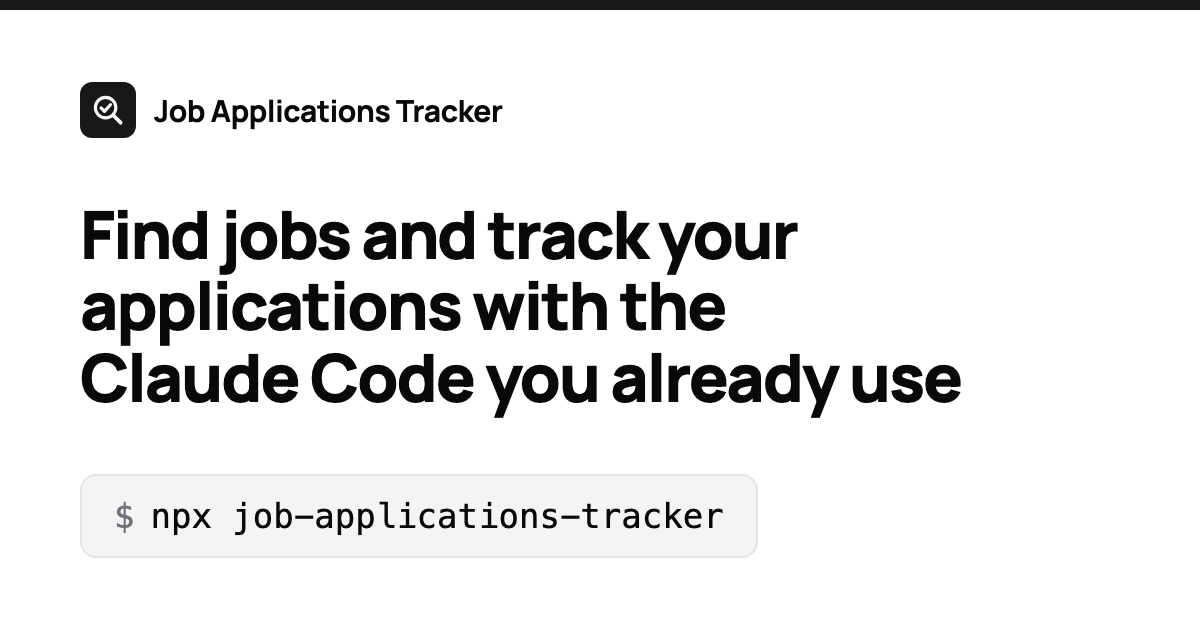
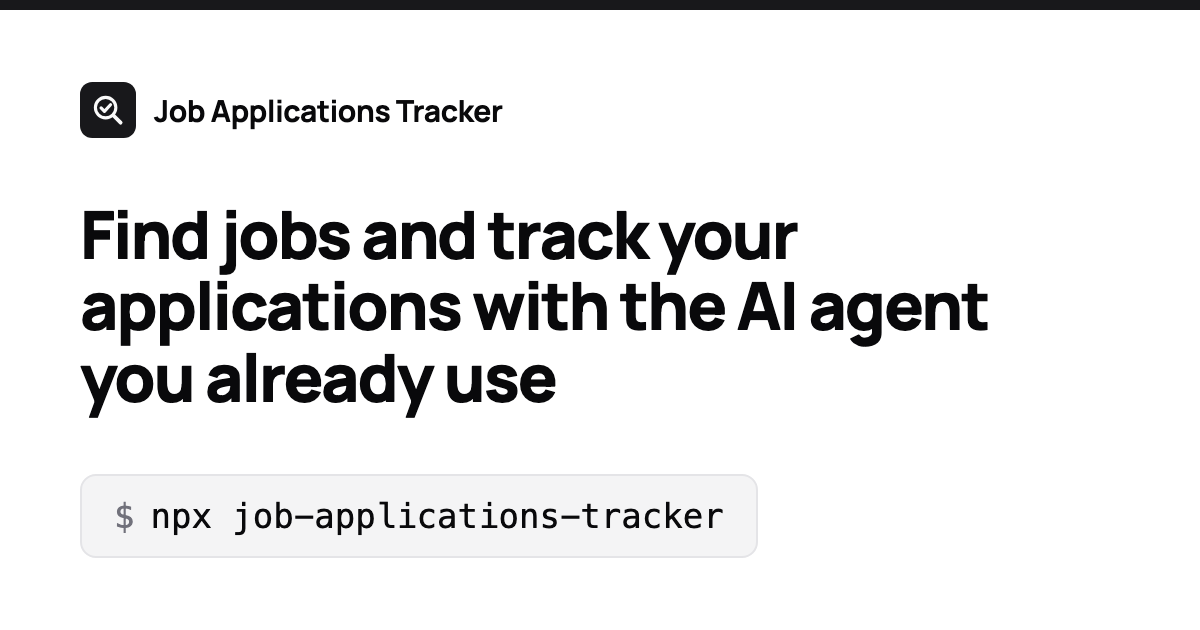
Make copy agent-neutral and rework the agent section
The headline, title, description and OG image now say "the AI agent you
already use"; claims that hold only for Claude Code are labelled as such.
The Claude Code section becomes "Works with your agent" with three steps:
run npx, pick your agent, optionally connect Gmail. Copy follows the app
README of npm 0.2.0; the copy guard checks the new section and that
"no agent setup" is always scoped to Claude Code.

Changed region(s): [[0.0617, 0.4524, 0.8325, 0.6635]]

diff --git a/src/content/site.ts b/src/content/site.ts
@@ -1,5 +1,5 @@
-// All page copy, commands and links. Every factual claim must trace to the app README at the
-// pinned commit and describe npm 0.2.0; tests/unit/copy-guard.test.ts enforces the banned phrases.
+// All page copy, commands and links. Every factual claim must trace to the app README of npm
+// 0.2.0 (tag v0.2.0) and describe that version; tests/unit/copy-guard.test.ts enforces the banned phrases.
 
 export type StepId = 'cv' | 'jobs' | 'apply' | 'review' | 'dashboard';
 export interface JourneyStep {
@@ -22,28 +22,28 @@ export const LINKS: { github: string; npm: string; readme: string; license: stri
 };
 
 export const meta: { title: string; description: string } = {
-  title: 'Job Applications Tracker: find and track jobs with Claude Code',
+  title: 'Job Applications Tracker: find and track jobs with your AI agent',
   description:
-    'A local app that has the Claude Code you already have find job postings, then checks every link itself, tracks your applications and proposes status changes from Gmail.',
+    'A local app that uses the AI agent you already have to find job postings. It checks every link itself, tracks your applications and turns Gmail replies into status changes you accept.',
 };
 
 export const hero: { headline: string; subhead: string } = {
-  // Non-breaking space keeps the product name on one line.
-  headline: 'Find jobs and track your applications with the Claude\u00a0Code you already use',
+  // Non-breaking spaces keep "AI agent" together and stop "use" from wrapping alone.
+  headline: 'Find jobs and track your applications with the AI\u00a0agent you already\u00a0use',
   subhead:
-    'A local app that has your agent search for postings that match your profile, checks every link itself, and turns Gmail replies into status changes you accept. No agent setup.',
+    'A local app that has your agent search for postings that match your profile, checks every link itself, and turns Gmail replies into status changes you accept. No agent setup with Claude Code.',
 };
 
 export const journeySteps: JourneyStep[] = [
   {
     id: 'cv',
     title: 'Drop your CV, get a profile',
-    line: 'Your agent reads the text of your CV and suggests target roles, locations, remote preference and seniority.',
+    line: 'The app reads the text of your CV and your agent suggests target roles, locations, remote preference and seniority.',
   },
   {
     id: 'jobs',
-    title: 'Claude Code finds jobs, the app checks every link',
-    line: 'Claude Code searches the web for matching postings; the app checks every link itself and shows how each job fits.',
+    title: 'Your agent finds jobs, the app checks every link',
+    line: 'Your agent searches the web for matching postings; the app checks every link itself and shows how each job fits.',
   },
   {
     id: 'apply',
@@ -69,7 +69,7 @@ export const trustPoints: { title: string; body: string }[] = [
   },
   {
     title: 'Your own agent',
-    body: 'The app runs the Claude Code you already use, with your sign-in and your plan. Your profile, the text of your CV and the mail it reads go to that agent, like any other prompt you give it.',
+    body: 'The app runs the agent CLI you already use: Claude Code by default, or Codex or a custom command. Your profile, the text of your CV and the mail it reads go to that agent, like any other prompt you give it.',
   },
   {
     title: 'Nothing changes until you accept',
@@ -77,18 +77,17 @@ export const trustPoints: { title: string; body: string }[] = [
   },
   {
     title: 'It never applies or sends mail',
-    body: 'The app never applies to jobs, sends mail, or changes your labels or messages. For Gmail sync, Claude Code is by default allowed only the search and read tools.',
+    body: 'The app never applies to jobs, sends mail, or changes your labels or messages. For Gmail sync, Claude Code is by default allowed only the search and read tools; Codex gets whatever access its own Gmail MCP server allows, and is told to only read.',
   },
 ];
 
-export const claudeCode: {
+export const agents: {
   title: string;
   intro: string;
   steps: { title: string; body: string; command?: string }[];
 } = {
-  title: 'No agent setup. Ready in two steps.',
-  intro:
-    'Claude Code is the app’s default agent. With it installed, the app skips agent Setup and opens on your profiles.',
+  title: 'Works with your agent',
+  intro: 'Claude Code is the app’s default agent; Codex and custom commands work too.',
   steps: [
     {
       title: 'Run it',
@@ -96,8 +95,12 @@ export const claudeCode: {
       command: INSTALL_NPX,
     },
     {
-      title: 'Connect Gmail in claude.ai (optional)',
-      body: 'Gmail sync uses the claude.ai Gmail connector. Connect Gmail once in your claude.ai account, and sync can read replies about your applications and propose status changes.',
+      title: 'Pick your agent',
+      body: 'With Claude Code installed, the app uses it and skips Setup. Otherwise Setup opens, where you pick Codex or a custom command. Change it later in Settings → Agent.',
+    },
+    {
+      title: 'Connect Gmail (optional)',
+      body: 'For Claude Code, connect Gmail once in your claude.ai account; sync uses the claude.ai Gmail connector. For Codex or a custom command, set up a Gmail MCP server in that agent yourself.',
     },
   ],
 };
@@ -155,7 +158,7 @@ export const faq: { q: string; a: string }[] = [
   },
   {
     q: 'What does the app send to the agent?',
-    a: 'For a CV analysis, the text read from your CV (not the file). For a job search, your profile fields, including Notes, and the links of jobs you already have. For Gmail sync, the agent searches and reads your mail, so it sees the messages it finds. That content reaches your agent’s model the same way your other prompts do.',
+    a: 'For a CV analysis, the text read from your CV (not the file). For a job search, your profile fields, including Notes, and the links of the 200 newest jobs you already have. For Gmail sync, the agent searches and reads your mail, so it sees the messages it finds. That content reaches your agent’s model the same way your other prompts do.',
   },
   {
     q: 'Where does my data live?',
@@ -167,7 +170,7 @@ export const faq: { q: string; a: string }[] = [
   },
   {
     q: 'What does it cost?',
-    a: 'The app is MIT-licensed. Searches and syncs run on your Claude Code plan, and each job search’s Run page shows what it used. A Max-effort search uses several times the tokens of a normal one, so it asks before it starts.',
+    a: 'The app is MIT-licensed. Searches and syncs run on your agent’s plan (Claude Code or Codex), and each job search’s Run page shows what the agent reported it used. A Max-effort search uses several times the tokens of a normal one, so it asks before it starts.',
   },
   {
     q: 'What do I need?',
@@ -183,6 +186,6 @@ function collectStrings(value: unknown, out: string[]): string[] {
 }
 
 export const ALL_COPY: string[] = collectStrings(
-  [INSTALL_NPX, INSTALL_GLOBAL, RUN_GLOBAL, meta, hero, journeySteps, trustPoints, claudeCode, sections, faq],
+  [INSTALL_NPX, INSTALL_GLOBAL, RUN_GLOBAL, meta, hero, journeySteps, trustPoints, agents, sections, faq],
   [],
 );

diff --git a/tests/unit/copy-guard.test.ts b/tests/unit/copy-guard.test.ts
@@ -1,5 +1,5 @@
 import { describe, expect, test } from 'vitest';
-import { ALL_COPY, INSTALL_NPX, claudeCode, faq, journeySteps } from '../../src/content/site';
+import { ALL_COPY, INSTALL_NPX, agents, faq, hero, journeySteps, meta } from '../../src/content/site';
 
 // Global Constraints: phrases that overclaim privacy or imply auto-apply.
 const BANNED = [
@@ -33,11 +33,29 @@ describe('site copy', () => {
     expect(faq.some((item) => item.a.includes('Node 22'))).toBe(true);
   });
 
-  test('two-step Claude Code section', () => {
-    expect(claudeCode.steps.length).toBe(2);
-    expect(claudeCode.steps[0].command).toBe(INSTALL_NPX);
-    const second = `${claudeCode.steps[1].title} ${claudeCode.steps[1].body}`;
-    expect(second).toContain('Gmail');
-    expect(second).toContain('claude.ai');
+  test('three-step agent section', () => {
+    expect(agents.steps.length).toBe(3);
+    expect(agents.steps[0].command).toBe(INSTALL_NPX);
+    const texts = agents.steps.map((step) => `${step.title} ${step.body}`);
+    expect(texts.some((text) => text.includes('Codex'))).toBe(true);
+    const gmail = texts.find((text) => text.includes('Gmail'));
+    expect(gmail).toContain('claude.ai');
+    expect(gmail).toContain('MCP');
+  });
+
+  // Decision 14: the pitch is agent-neutral; "no agent setup" holds only for Claude Code.
+  test('headline, title and description are agent-neutral', () => {
+    for (const text of [hero.headline, meta.title, meta.description]) {
+      expect(text).not.toContain('Claude');
+    }
+    expect(hero.headline.replace(/\u00a0/g, ' ')).toContain('the AI agent you already use');
+  });
+
+  test('"no agent setup" is always scoped to Claude Code', () => {
+    for (const text of ALL_COPY) {
+      for (const match of text.matchAll(/no agent setup/gi)) {
+        expect(text.slice(match.index), `"${text}"`).toMatch(/^no agent setup with Claude Code/i);
+      }
+    }
   });
 });

diff --git a/tests/e2e/sections.spec.ts b/tests/e2e/sections.spec.ts
@@ -31,9 +31,9 @@ test('no horizontal scroll at 390px', async ({ page }) => {
   expect(overflow).toBeLessThanOrEqual(0);
 });
 
-test('page has the trust, claude-code and install sections', async ({ page }) => {
+test('page has the trust, agents and install sections', async ({ page }) => {
   await page.goto('/');
-  for (const id of ['trust', 'claude-code', 'install']) {
+  for (const id of ['trust', 'agents', 'install']) {
     await expect(page.locator(`section#${id}`)).toHaveCount(1);
   }
 });

diff --git a/scripts/og/og.html b/scripts/og/og.html
@@ -40,7 +40,7 @@
     </svg>
     Job Applications Tracker
   </div>
-  <h1>Find jobs and track your applications with the Claude&nbsp;Code you already use</h1>
+  <h1>Find jobs and track your applications with the AI&nbsp;agent you already&nbsp;use</h1>
   <div class="cmd"><span>$</span> npx job-applications-tracker</div>
 </body>
 </html>

diff --git a/src/lib/analytics.ts b/src/lib/analytics.ts
@@ -1,5 +1,6 @@
 import { track } from '@vercel/analytics';
 
+// 'claude-code' is the agents section; the value predates its rename and stays for analytics continuity.
 export type CopyLocation = 'hero' | 'claude-code' | 'install';
 
 // Analytics must never break the copy flow.
